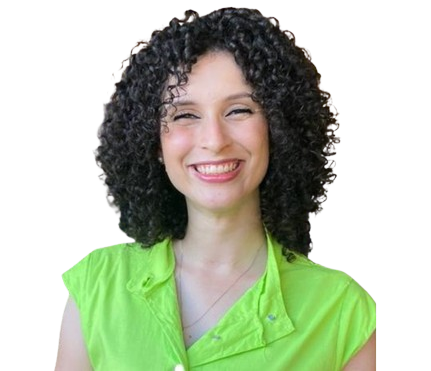
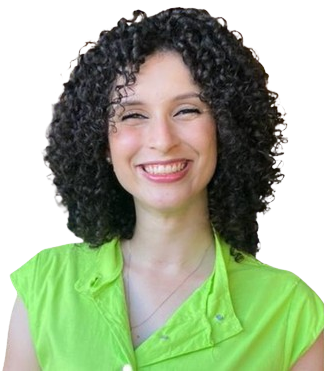
feat/Ajuste layout

diff --git a/index.html b/index.html
@@ -17,10 +17,10 @@
 
 <body>
 
-    <header>
+    <header class="px-2">
         <div class="botao__voltar">
             <a href="#sessao_inicial">
-                <i class="bi bi-arrow-up fs-1 text-light ps-1 pt-5"></i></a>
+                <i class="bi bi-arrow-up-short fs-1 text-light ps-1 pt-5"></i></a>
         </div>
         <div class="navbar d-flex justify-content-between ps-5 p-2 ">
             <h1 id="sessao_inicial" class="fw-bold m-0 align-items-center titulo">Portifólio</h1>
@@ -38,62 +38,60 @@
             </ul>
         </div>
 
-        <section class="hero  align-items-center pt-5 mt-5">
-            <div class="hero__informacoes d-flex justify-content-around align-items-center ">
-                <div class="hero__informacoes__principal">
+        <section class="hero  align-items-center pt-3">
+            <div class="row hero__informacoes d-flex justify-content-around align-items-center ">
+                <div class="hero__informacoes__principal col-sm-12 col-md-6">
 
                     <p>Oi, eu sou a <br>
                         <span class=" titulo hero__informacoes--destaque">Maria Eduarda</span><br>
                         Desenvolvedora Front-end
-
                     </p>
                     <ul class="d-flex ps-0 fs-1">
-                        <li class="p-0">
+                        <li class="me-2">
                             <i class="devicon-html5-plain-wordmark colored"></i>
                         </li>
-                        <li>
+                        <li class="me-2">
                             <i class="devicon-css3-plain-wordmark colored"></i>
                         </li>
-                        <li>
+                        <li class="me-2">
                             <i class="devicon-less-plain-wordmark colored"></i>
                         </li>
-                        <li>
+                        <li class="me-2">
                             <i class="devicon-sass-original colored"></i>
                         </li>
-                        <li>
+                        <li class="me-2">
                             <i class="devicon-javascript-plain colored"></i>
                         </li>
-                        <li>
+                        <li class="me-2">
                             <i class="devicon-bootstrap-plain-wordmark colored"></i>
                         </li>
-                        <li>
+                        <li class="me-2">
                             <i class="devicon-jquery-plain-wordmark colored"></i>
                         </li>
-                        <li>
+                        <li class="me-2">
                             <i class="devicon-git-plain colored"></i>
                         </li>
-                        <li>
+                        <li class="me-2">
                             <i class="devicon-github-original colored"></i>
                         </li>
-                        <li>
+                        <li class="me-2">
                             <i class="devicon-gulp-plain colored"></i>
                         </li>
-                        <li>
+                        <li class="me-2">
                             <i class="devicon-grunt-plain colored"></i>
                         </li>
                     </ul>
+                    <div class="row d-flex justify-content-around pt-3">
+                        <a href="./src/assets/pdf/Maria Eduarda  Rezende- Desenvolver Front End Jr.pdf"
+                            class="col-5 btn hero__informacoes__btn" target="_blank">Currículo</a>
+                        <a class="col-5  btn hero__informacoes__btn" href="http://wa.me/55064992754875" target="_blank">
+                            Fale comigo
+                            <i class="bi bi-whatsapp"></i>
+                        </a>
+                    </div>
                 </div>
 
-
-                <img class="hero__informacoes__img w-25" src="./src/assets/img/dev-duda.png" alt="Autora da página">
-            </div>
-            <div class="pt-5 mt-5 text-center">
-                <a href="./assets/pdf/Maria Eduarda  Rezende- Desenvolver Front End Jr.pdf"
-                    class="btn col-5 hero__informacoes__btn me-5" target="_blank">Currículo</a>
-                <a class="btn col-5 hero__informacoes__btn" href="http://wa.me/55064992754875" target="_blank">
-                    Fale comigo
-                    <i class="bi bi-whatsapp d-sm-none"></i>
-                </a>
+                <img class="hero__informacoes__img w-50 col-sm-12 col-md-6 mt-sm-5 mt-md-0" src="./src/assets/img/dev-duda.png" alt="Autora da página">
             </div>
         </section>
 
@@ -104,7 +102,7 @@
         <section class="sobre">
             <h2 class="titulo" id="sobre" class="pt-sm-2 pt-md-4">Sobre</h2>
             <div class="d-flex justify-content-center">
-                <div class="sobre_mim text-md-center mt-md-5 pt-md-5">
+                <div class="sobre_mim text-md-center mt-md-5">
                     <p>Olá, que bom que está aqui! Estou em transição de carreira
                         para a
                         área de tecnologia.
@@ -127,7 +125,7 @@
 
         <section>
             <h2 class="titulo" id="repositorio">Projetos</h2>
-            <div class="py-5">
+            <div class="py-3">
                 <h2 class="fs-1 titulo">Destaque</h2>
 
                 <ul class="py-5 row">
@@ -353,7 +351,7 @@
                                             class="devicon-github-original text-light fs-3 pe-2"></i> </a>
                                 </li>
                                 <li>
-                                    <a class="fw-bold fs-5" href="https://numerosecreto-nu.vercel.app/"  target="_blank"><i
+                                    <a class="fw-bold fs-5" href="https://numerosecDudareto-nu.vercel.app/"  target="_blank"><i
                                             class="bi bi-globe2"></i></a>
                                 </li>
                             </ul>

diff --git a/dev/styles/style.css b/dev/styles/style.css
@@ -51,10 +51,6 @@ ul {
     padding: 16px 0;
   }
 }
-#sessao_inicial {
-  background-color: transparent;
-  border: none;
-}
 .botao__voltar {
   width: 50px;
   height: 50px;
@@ -90,7 +86,6 @@ ul {
 }
 .hero__informacoes__btn {
   border: 1px solid #9A031E;
-  width: 20%;
 }
 .hero__informacoes__btn:hover {
   background-color: #9A031E;
@@ -98,16 +93,15 @@ ul {
   text-decoration: none;
   font-weight: bold;
 }
+.hero__informacoes__img {
+  height: 100%;
+}
 h2 {
   color: #9A031E;
   border-bottom: 1px solid #9A031E;
   font-size: 4em;
 }
-.sobre {
-  height: 100vh;
-}
 .sobre_mim {
-  width: 70%;
   font-size: 1.2em;
 }
 .sobre > div {
@@ -136,10 +130,6 @@ h2 {
   }
   h3 {
     padding: 16px 0;
-  }
-  .sobre p,
-  .repositorios p {
-    padding: 30px 0 16px;
   }
   form {
     max-width: 340px;

diff --git a/src/styles/_hero.less b/src/styles/_hero.less
@@ -24,13 +24,14 @@
 .hero {
     font-size: 1.75em;
 
-
     &__informacoes {
+        overflow-y: hidden;
 
         &__principal {
             animation-duration: 3s;
             animation-name: slide-in;
             animation-iteration-count: 1;
+
         }
 
         &--destaque {
@@ -41,8 +42,6 @@
 
         &__btn {
             border: 1px solid @rubi;
-            width: 20%;
-
 
             &:hover {
                 background-color: @rubi;

diff --git a/src/styles/_main.less b/src/styles/_main.less
@@ -5,14 +5,12 @@ h2 {
 }
 
 .sobre {
-    height: 100vh;
 
     &_mim {
-        width: 70%;
         font-size: 1.2em;
     }
 
-    & > div {
+    &>div {
         flex-direction: column-reverse;
         align-items: center;
     }
@@ -49,11 +47,6 @@ h2 {
 
     h3 {
         padding: 16px 0;
-    }
-
-    .sobre p,
-    .repositorios p {
-        padding: 30px 0 16px;
     }
 
     form {
